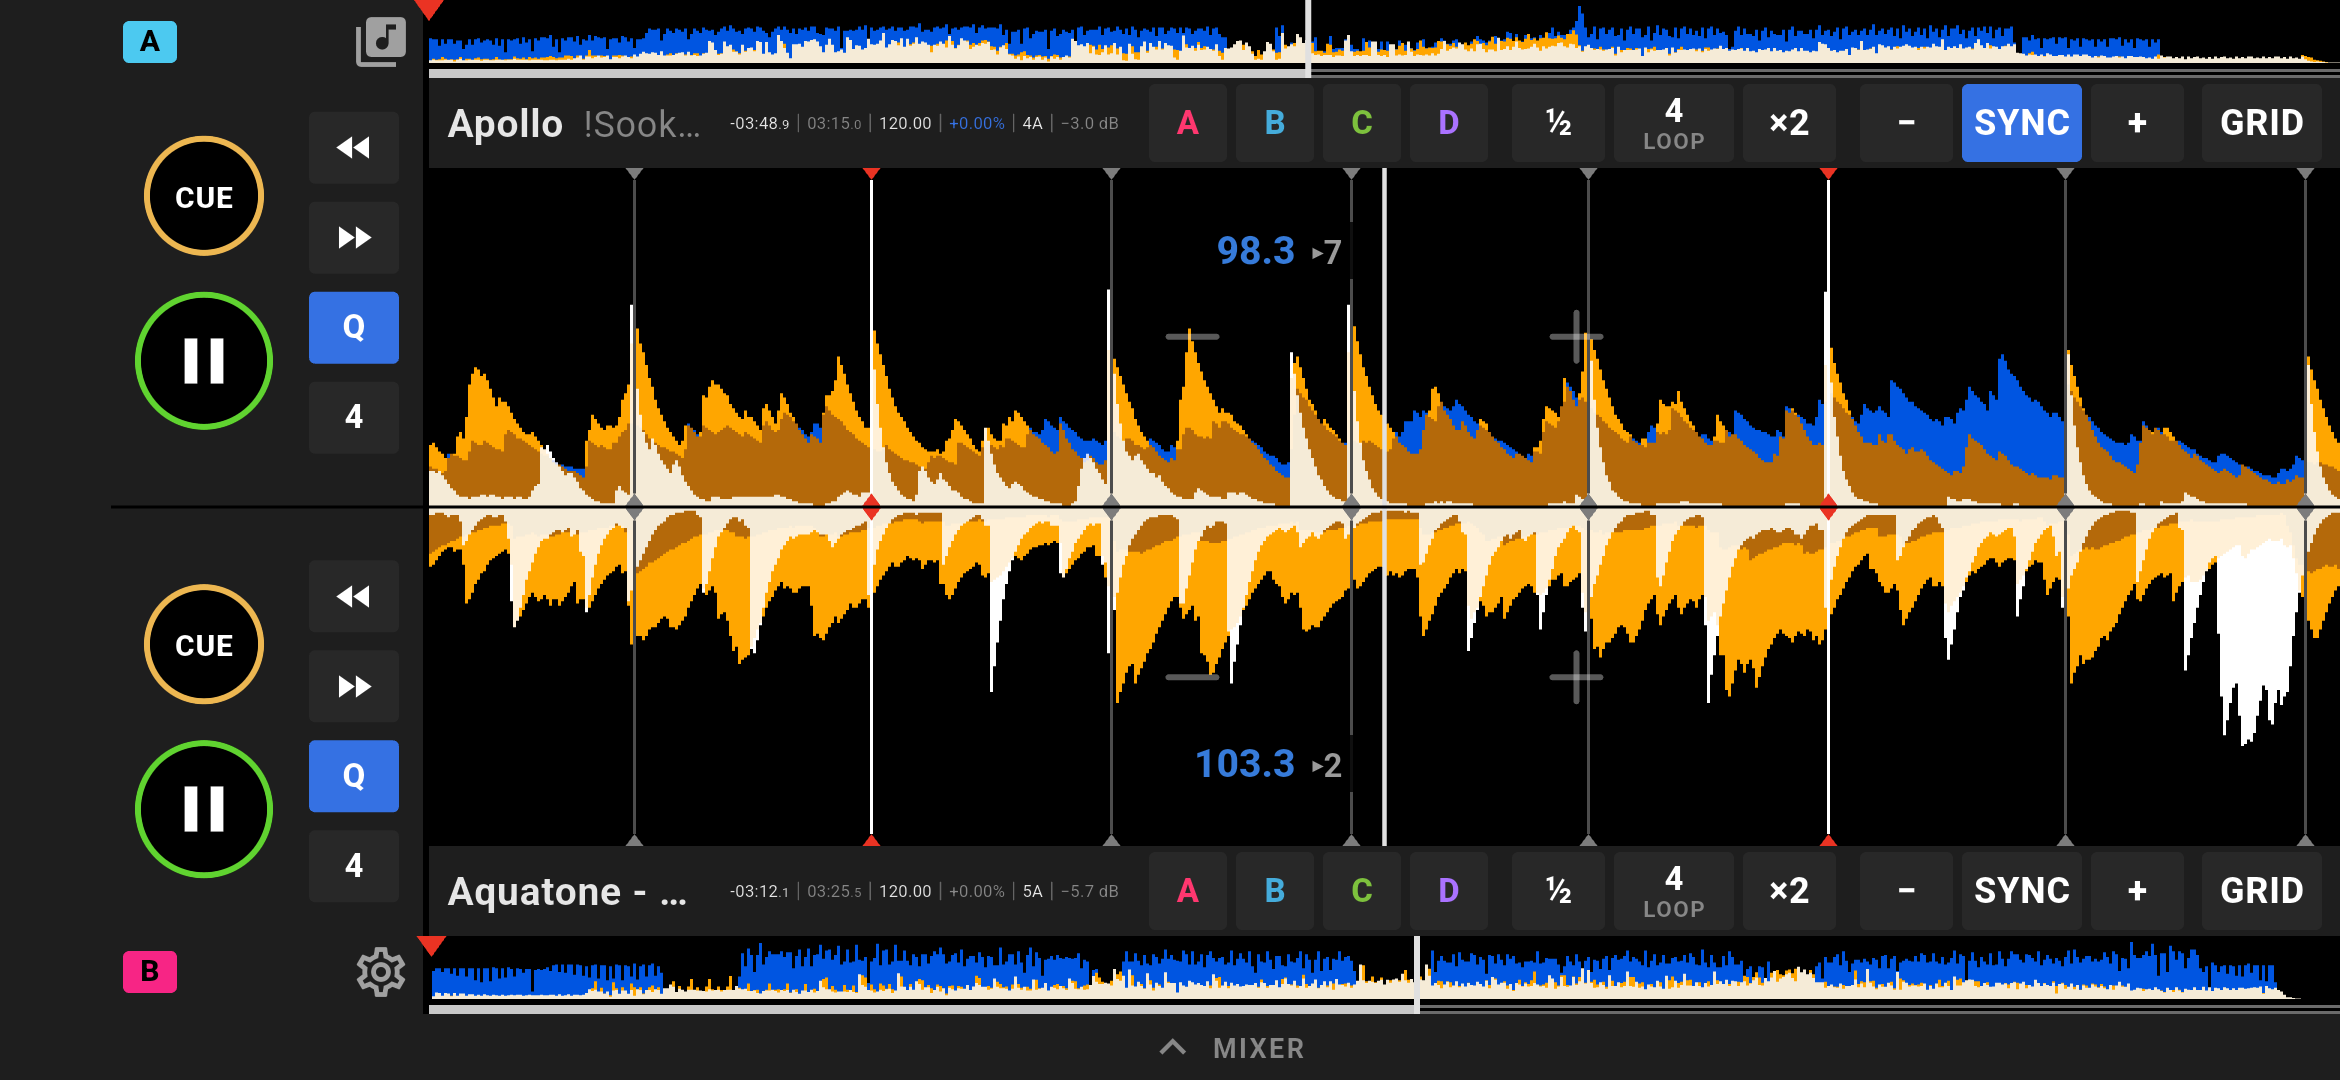
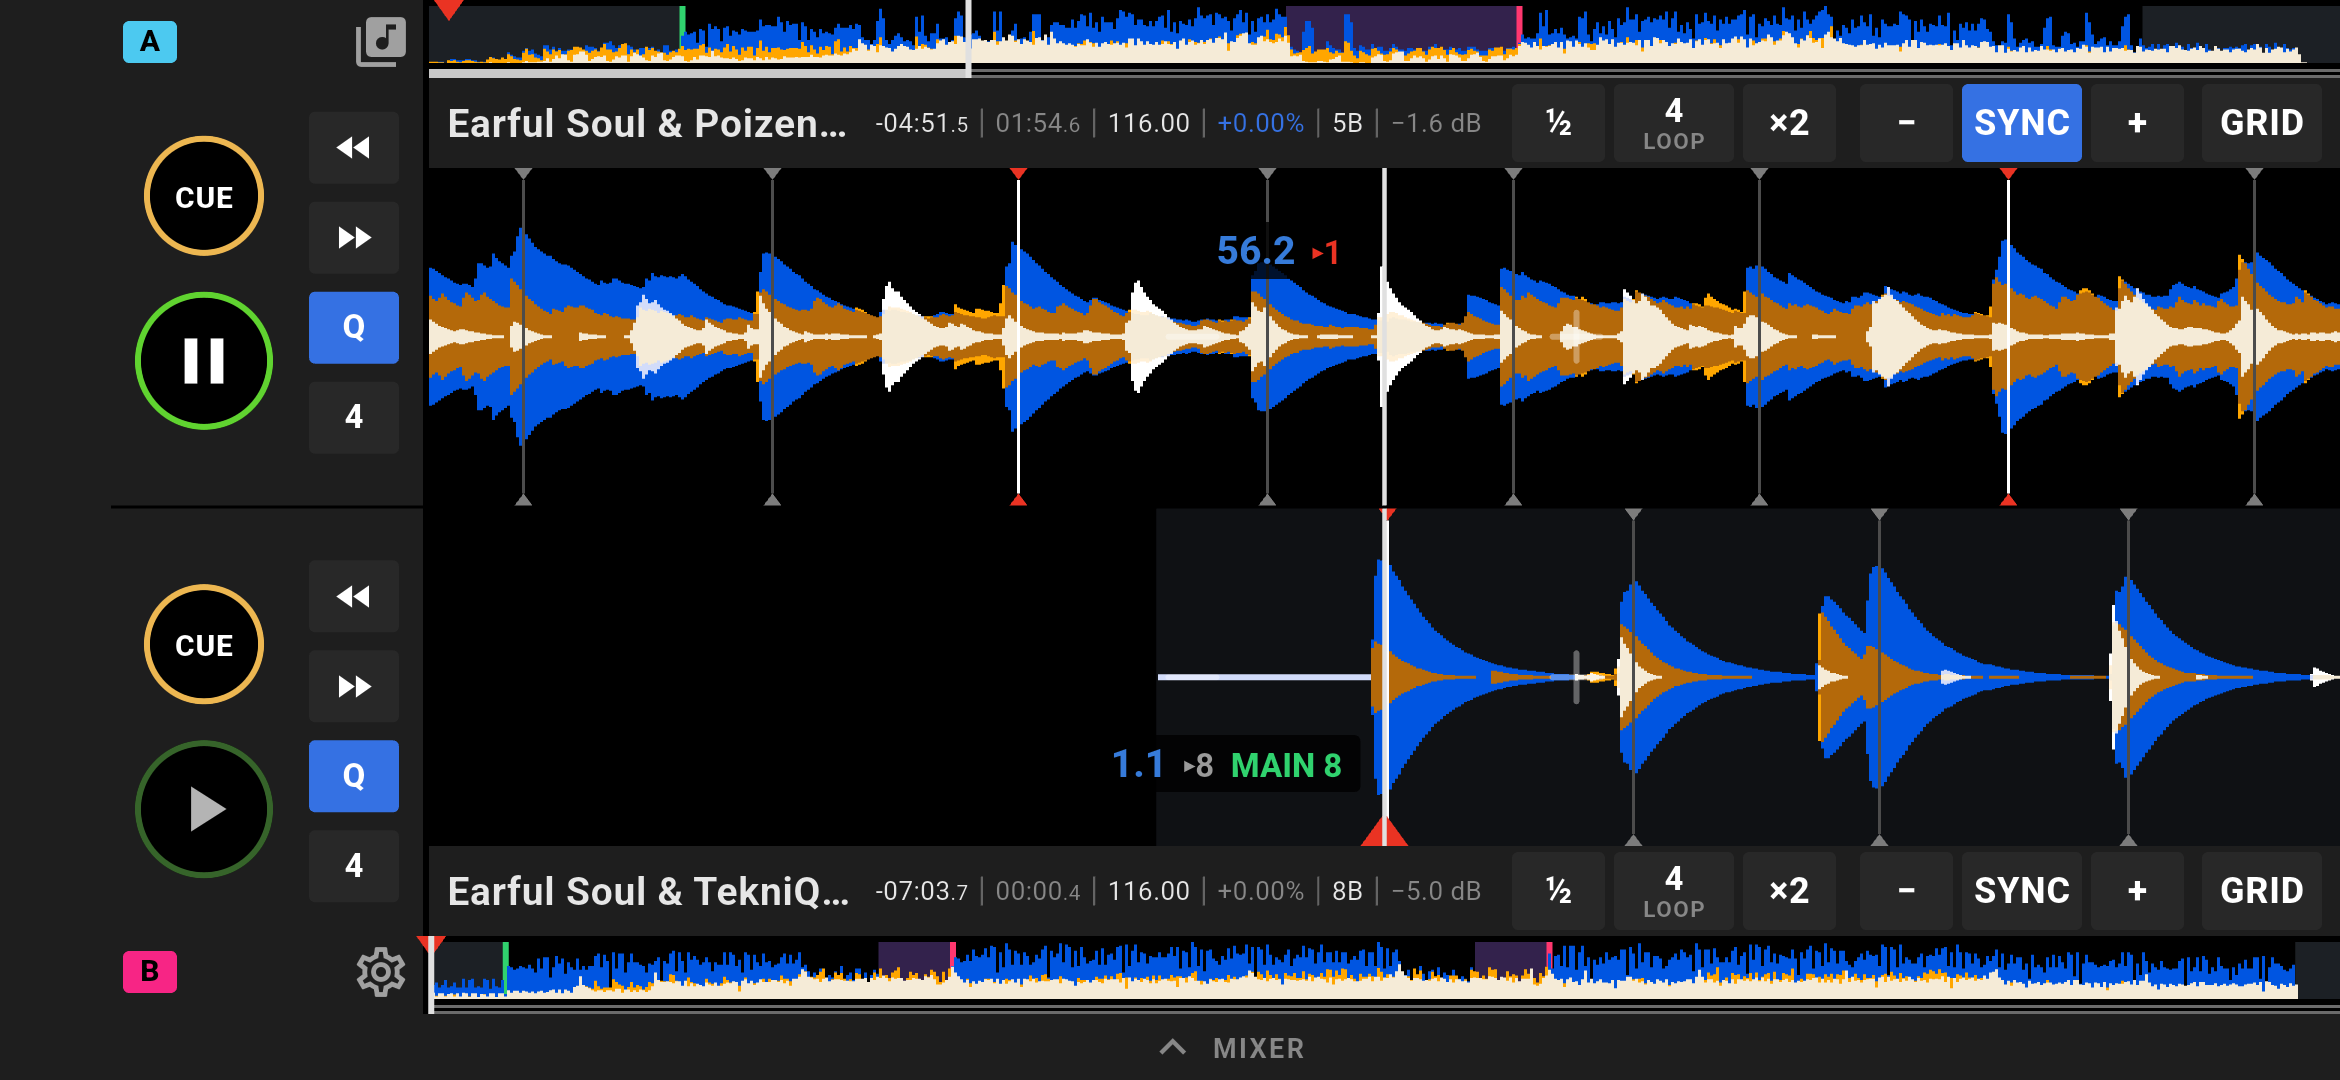
README: sections, upright layout, BPM pad, Auto Cue, fader reset; new screenshots
Also drops the icons from Settings > Screen when upright, where
"Landscape" wrapped.

diff --git a/lib/ui/settings_page.dart b/lib/ui/settings_page.dart
@@ -149,12 +149,19 @@ class _SettingsPageState extends State<SettingsPage> {
             style: TextStyle(color: SideDeckTheme.muted, fontSize: 12, height: 1.4),
           ),
           const SizedBox(height: 8),
+          // Upright there is no room for icons beside "Landscape".
           SegmentedButton<int>(
-            segments: const [
-              ButtonSegment(value: 0, label: Text('Auto'), icon: Icon(Icons.screen_rotation)),
-              ButtonSegment(value: 1, label: Text('Landscape'), icon: Icon(Icons.stay_current_landscape)),
-              ButtonSegment(value: 2, label: Text('Portrait'), icon: Icon(Icons.stay_current_portrait)),
-            ],
+            segments: MediaQuery.sizeOf(context).width < 600
+                ? const [
+                    ButtonSegment(value: 0, label: Text('Auto')),
+                    ButtonSegment(value: 1, label: Text('Landscape')),
+                    ButtonSegment(value: 2, label: Text('Portrait')),
+                  ]
+                : const [
+                    ButtonSegment(value: 0, label: Text('Auto'), icon: Icon(Icons.screen_rotation)),
+                    ButtonSegment(value: 1, label: Text('Landscape'), icon: Icon(Icons.stay_current_landscape)),
+                    ButtonSegment(value: 2, label: Text('Portrait'), icon: Icon(Icons.stay_current_portrait)),
+                  ],
             selected: {widget.dj.screenOrientation},
             showSelectedIcon: false,
             onSelectionChanged: (s) async {

diff --git a/README.md b/README.md
@@ -29,7 +29,11 @@ USB out to an external mixer such as the Teenage Engineering EP-136 K.O. Sidekic
 > changes listed under [What this fork adds](#what-this-fork-adds). Build from
 > this branch to get them.
 
-![Two synced decks with the internal mixer hidden: 3-band waveforms meeting at the centre line, bar / phrase counters, auto gain beside the key, and two-column transport rails (CUE over PLAY; beat jump, Q and jump size)](screenshots/decks.png)
+![Two synced decks with the internal mixer hidden and full waveforms: track sections tinted on the overviews (breakdowns in purple), bar / phrase counters with a section countdown (MAIN 8), auto gain beside the key, Auto Cue parking deck B on its first beat, and two-column transport rails](screenshots/decks.png)
+
+<img src="screenshots/portrait.png" alt="The upright layout: deck A above, deck B below, controls on the outside and the two scrolling waveforms meeting in the middle; deck A is in a tinted breakdown with the bar counter counting down to the drop" width="300"> <img src="screenshots/bpm.png" alt="Long-press SYNC: the in-app BPM keypad, upright" width="300">
+
+![Settings: Screen (auto, landscape or portrait) and Deck buttons (hot cue pads, Auto Cue)](screenshots/settings.png)
 
 ![The restyled internal mixer: EQ faders and crossfader (the filter fader is optional)](screenshots/mixer.png)
 
@@ -50,12 +54,13 @@ USB out to an external mixer such as the Teenage Engineering EP-136 K.O. Sidekic
 | External mixer | Fixed silent playback on Samsung/Qualcomm phones; decks take the full screen in external mode |
 | Waveforms | rbxport-style 3-band waveforms, mirrored at a shared centre line; pinch zoom; smooth motion |
 | Deck controls | New control row and two-column transport rail, CUE, hot cues A–D, quantize, beat jump, on-wave nudge; tap the title for track details |
-| Navigation | Drag the waveform to scrub; bar / phrase counter |
-| Mixer | Restyled faders with a centre notch and blue offset fill; filter fader optional; hide it to give the decks the screen |
+| Navigation | Drag the waveform to scrub; bar / phrase counter; track sections (intro, break, drop, outro) with a countdown |
+| Screen | Upright layout as well as landscape (auto, or locked either way); optional full (mirrored) waveforms |
+| Mixer | Restyled faders with a centre notch and blue offset fill; double-tap resets; filter fader optional; hide it to give the decks the screen |
 | Auto gain | Every track levelled to the same loudness without clipping |
 | Tempo | Key lock switch; optional tempo fader per deck (±8 / ±16 / ±50 %) |
-| Sync | Beat sync: SYNC matches tempo *and* snaps into beat phase |
-| Cues | Cue and hot cues saved per track and restored on load |
+| Sync | Beat sync: SYNC matches tempo *and* snaps into beat phase; tap again to release; long-press to type an exact BPM |
+| Cues | Cue and hot cues saved per track and restored on load; Auto Cue parks new tracks on their first beat; hot cue pads can be hidden |
 | Beat grid | Whole-track analysis, kick-attack grid fit, checked BPM rounding, drift correction, "check grid" warning, hand-fixed grids protected; grid fix tools (beat here, bar here, BPM edit, tap tempo, undo) |
 | Library | Key display setting (Camelot / musical / both); search filter fix; played marks and a History tab; rekordbox USB import (untested on a real stick) |
 
@@ -114,6 +119,27 @@ Upstream: [issue #13](https://github.com/manueljpy/SideDeck/issues/13),
 - **Bar / phrase counter** beside the playhead, e.g. `33.2 ▸3`: bar 33, beat 2,
   three bars to the next 8-bar phrase (red on the last bar). Bar 1 is the grid's
   first beat.
+- **Track sections** (Settings → Waveform, on by default): INTRO, MAIN, BREAK,
+  DROP and OUTRO, found from where the low end (kick and bass) drops out and
+  comes back, bar by bar on the beat grid. Fills and kick drops under 4 bars
+  don't count, and changes land on 4-bar lines. Bass-less stretches are tinted
+  on the overview and detail, each section start gets a coloured line and tag,
+  and the bar counter counts down to the next change within 32 bars
+  (`33.2 ▸3  BREAK 7`). They follow the grid, so a grid fix moves them. A break
+  that keeps the kick going isn't marked yet.
+- **Full waveform** (Settings → Waveform, off by default): both decks' scrolling
+  waveforms drawn mirrored round their middle instead of from the centre line.
+
+### Upright (portrait) layout
+
+**Settings → Screen:** Auto (turns with the phone and keeps to its rotation
+lock), Landscape or Portrait. Upright, the side rail goes: each deck has its
+overview, a title row (library or settings on the right), the readouts, the
+control row and a transport row (CUE, PLAY, ◀◀ ▶▶, jump size, Q, KEY), and the
+two scrolling waveforms meet in the middle of the screen with the mixer below.
+The tempo fader is landscape-only; − / + and the SYNC pad set tempo upright.
+The library toolbar and the BPM pad wrap to fit, and the library stays clear of
+the camera cutout.
 
 ### Cues, hot cues and scrubbing
 
@@ -127,6 +153,11 @@ Upstream: [issue #13](https://github.com/manueljpy/SideDeck/issues/13),
   waveform and overview.
 - **Saved per track:** the cue and hot cues are stored by file path and restored
   on load; a deck with a saved cue opens parked on it.
+- **Auto Cue** (Settings → Deck buttons, on by default): a track with no saved
+  cue loads parked on the first beat where the music starts, skipping leading
+  silence, as on a CDJ. Without a grid it cues the first sound.
+- **Hot cue pads** can be hidden (Settings → Deck buttons) to give the control
+  row room; set cues still show on the waveforms.
 - **Quantize (Q, on by default):** CUE, new hot cues and loop-in snap to the
   nearest beat, and hot cue jumps while playing keep the beat phase.
 - **Beat jump:** ◀◀ ▶▶ by 1, 2, 4, 8, 16 or 32 beats (tap the size box to cycle).
@@ -135,7 +166,8 @@ Upstream: [issue #13](https://github.com/manueljpy/SideDeck/issues/13),
 
 Restyled after rbxport's neutral mixer: flat faders on thin rails with a centre
 notch, and a blue fill from the centre so any EQ, filter or crossfader move away
-from flat is visible. In external mixer mode the strip is hidden and the decks
+from flat is visible. Double-tap a fader to reset it (EQ flat, filter off,
+crossfader centred). In external mixer mode the strip is hidden and the decks
 use the whole screen.
 
 The filter fader is off by default, so the strip is EQ and crossfader only and
@@ -153,7 +185,13 @@ remembered.
 SYNC matches the synced deck's tempo to the other deck and keeps following it.
 With both decks playing it also shifts the synced deck by under half a beat so
 the beats line up; a synced deck started under a playing deck snaps into phase
-as it starts. It aligns beats, not bars.
+as it starts. It aligns beats, not bars. Tap SYNC again to release it; the
+deck keeps the tempo it had.
+
+**Long-press SYNC** to type an exact BPM on an in-app keypad (the phone's
+keyboard would cover a landscape screen): Set, Original (the track's own BPM)
+or Cancel, anywhere from half to double the track's BPM. It releases sync on
+that deck, and a deck synced to it follows.
 
 ### Tempo fader and key lock
 
@@ -253,6 +291,9 @@ cue colours and comments. It has only been tested on synthetic files so far.
 - **On-screen mixer** (Settings): show or hide the filter fader.
 - **Auto gain** (Settings): on or off.
 - **Tempo** (Settings): key lock, the tempo fader, and its direction.
+- **Screen** (Settings): auto, landscape or portrait.
+- **Deck buttons** (Settings): hot cue pads, Auto Cue.
+- **Waveform** (Settings): full waveform, track sections.
 - **Search fix:** the filter could stay active after a search while the box
   looked empty, so other tracks could not be picked. The box now shows the
   active filter and has a clear button.
@@ -280,7 +321,8 @@ cue colours and comments. It has only been tested on synthetic files so far.
 | Q | Rail | Quantize on / off |
 | A B C D | Control row | Hot cues: tap set or jump, long-press clear |
 | ½ · LOOP · ×2 | Control row | Halve, toggle, double the loop |
-| − · SYNC · + | Control row | BPM ±0.1, beat sync |
+| − · SYNC · + | Control row | BPM ±0.1; beat sync (tap again to release, long-press to type a BPM) |
+| Double-tap a fader | Mixer | Reset EQ / filter / crossfader to centre |
 | KEY · fader · ±% | Rail (when turned on) | Key lock, tempo (double-tap resets), range |
 | GRID | Control row | Grid fix tools: beat here, bar here, 5 ms, BPM, tap, undo |
 | ▼ / ▲ MIXER | Above the crossfader / bottom strip | Hide / show the internal mixer |
